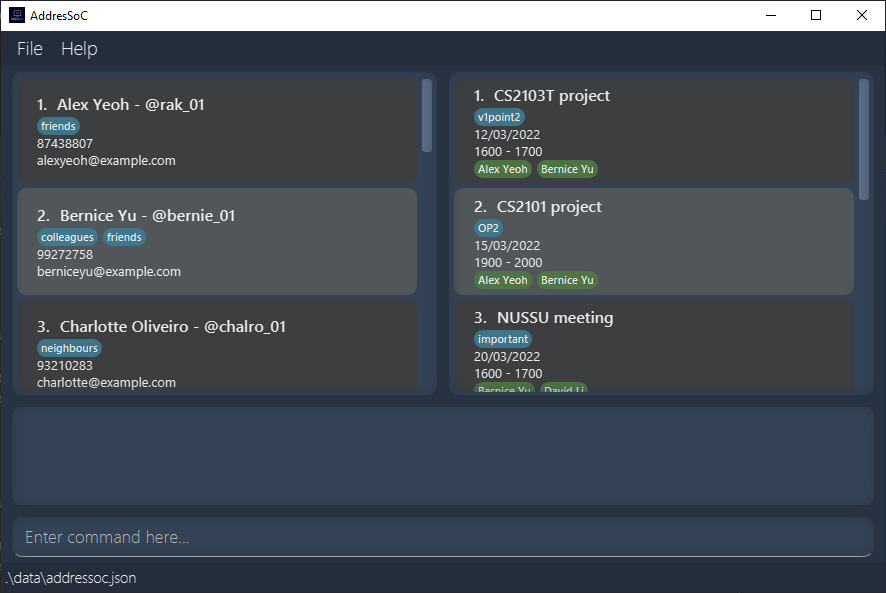
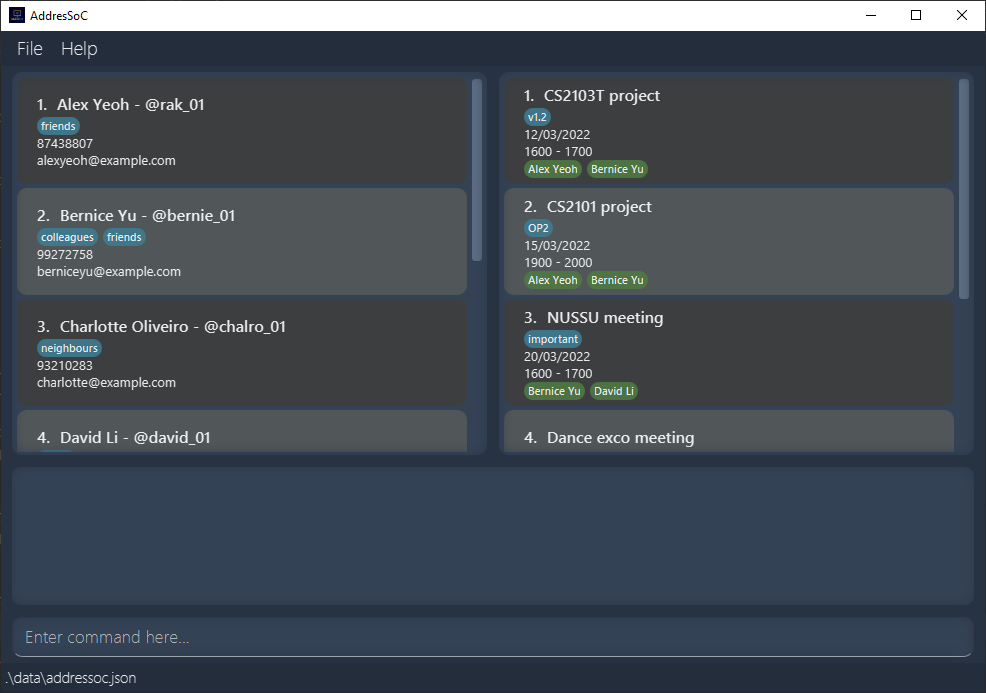
Update Ui sample image

diff --git a/src/main/java/seedu/address/model/util/SampleDataUtil.java b/src/main/java/seedu/address/model/util/SampleDataUtil.java
@@ -55,7 +55,7 @@ public class SampleDataUtil {
             new Meeting(new MeetingName("CS2103T project"), new MeetingDate("12/03/2022"),
                         new StartTime("1600"), new EndTime("1700"),
                         getParticipantSet(samplePersons[0], samplePersons[1]), new MeetingArchiveStatus(false),
-                    getTagSet("v1point2")),
+                    getTagSet("v1.2")),
             new Meeting(new MeetingName("CS2101 project"), new MeetingDate("15/03/2022"),
                         new StartTime("1900"), new EndTime("2000"),
                         getParticipantSet(samplePersons[0], samplePersons[1]), new MeetingArchiveStatus(false),
